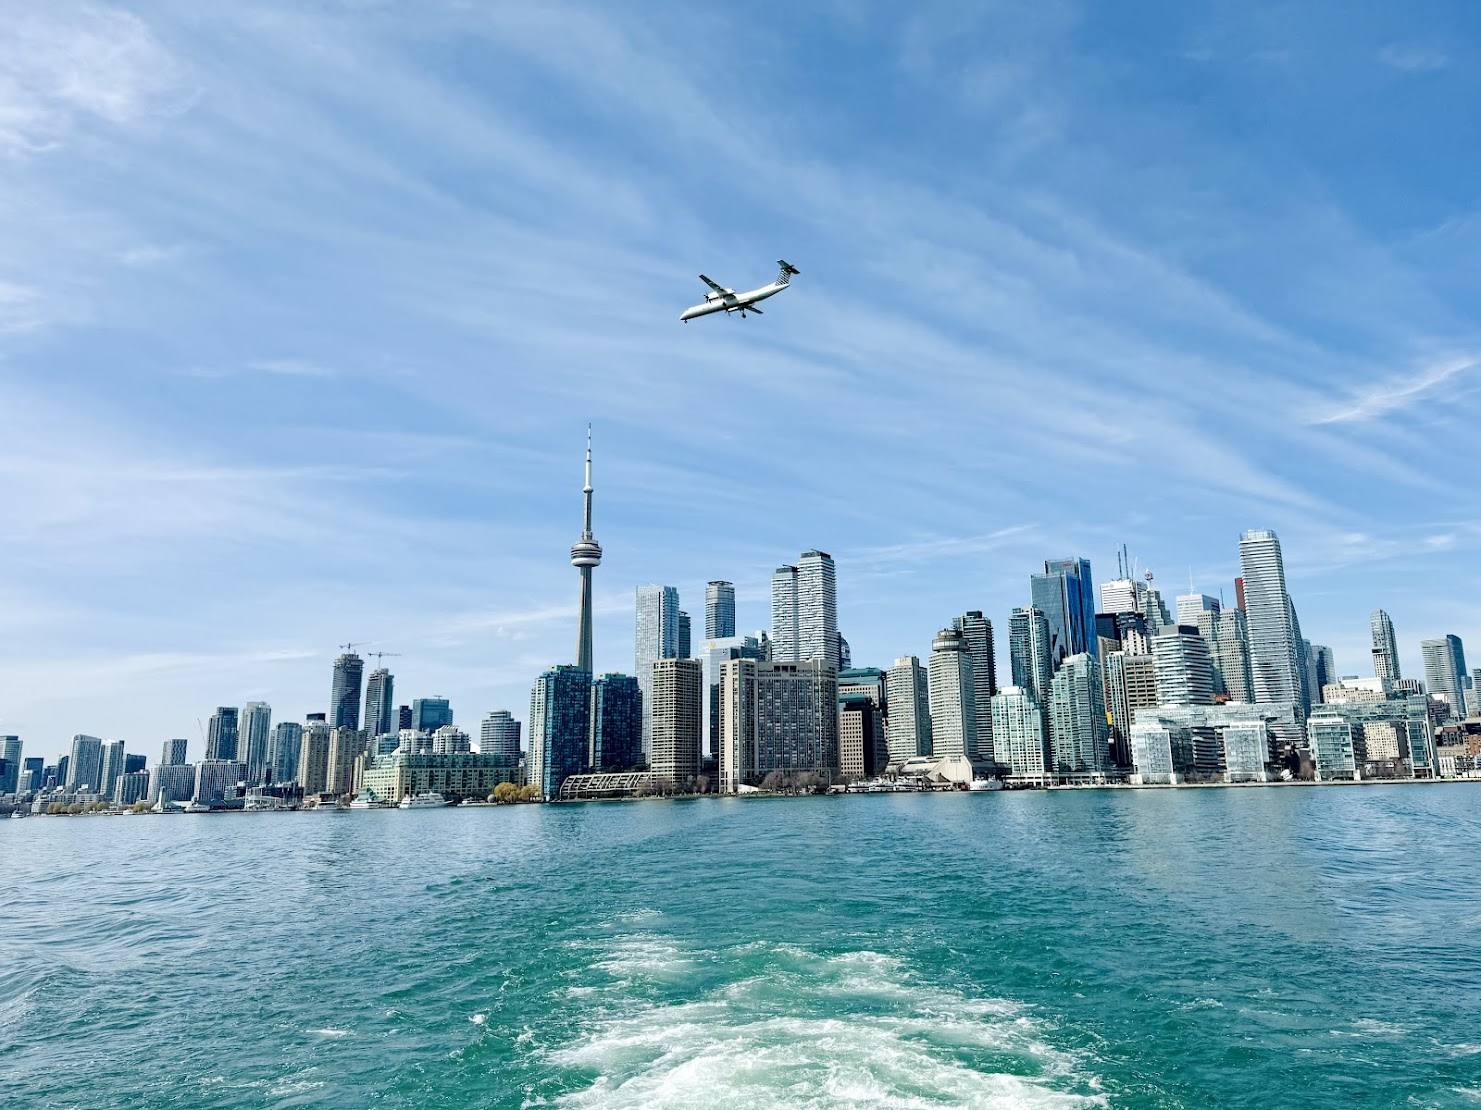
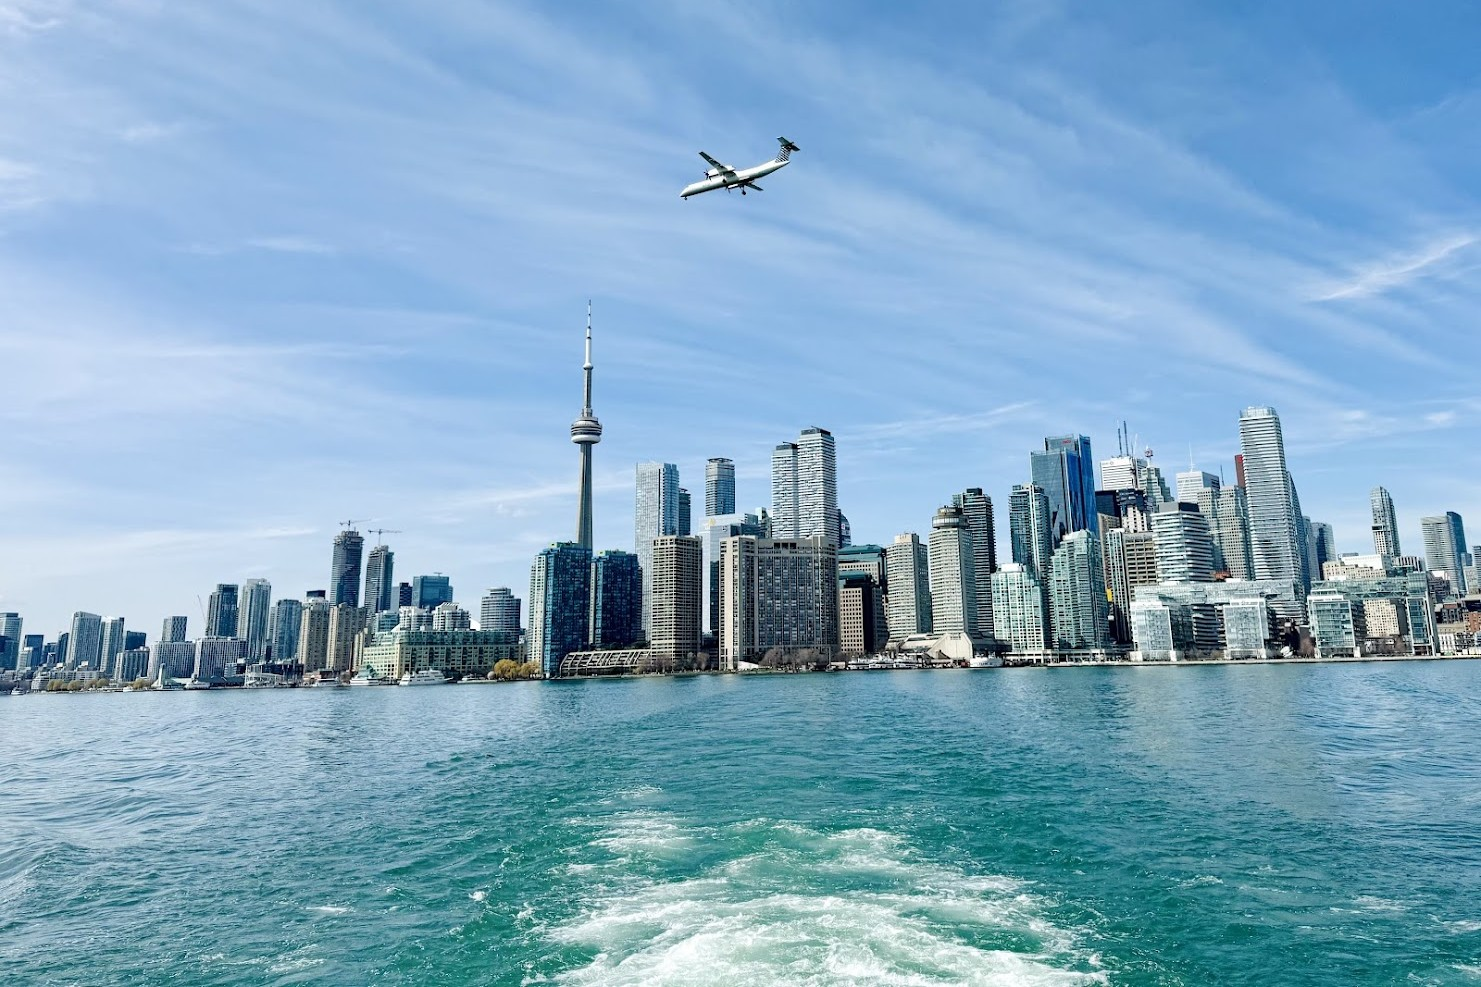
improve cover

diff --git a/_posts/2024-04-06-montreal.md b/_posts/2024-04-06-montreal.md
@@ -5,7 +5,7 @@ categories:
 - Travel
 excerpt: city with french vibe, solar eclipse
 header:
-  teaser: /assets/images/2024/montreal5.jpg
+  teaser: /assets/images/2024/montreal-cover.jpg
 ---
 
 ## 2024.04.06 - 2024.04.08
